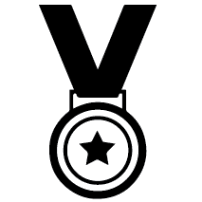
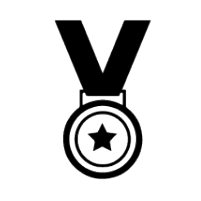
Attempt to solve jekyll building issue - part 3

Changed region(s): [[0.1791, 0.0, 0.7761, 1.0]]

diff --git a/_sass/hydejack/_images.pre.scss b/_sass/hydejack/_images.pre.scss
@@ -26,6 +26,7 @@
     // <<< link
     background-position: center;
     background-repeat: no-repeat;
[1 lines of base64/hex data omitted]
     // >>>
   }
 }
@@ -76,3 +77,18 @@ figure, .figure {
 .animation-main hy-img img { animation: none!important; }
 
 // >>>
+
+// CUSTOM
+
+.content .img-custom {
+  img {
+    margin: 0;
+    width: 100%;
+    height: 100%;
+    object-fit: cover;
+    object-position: center;
+    background-color: var(--gray-bg);
+    background-position: center;
+    background-repeat: no-repeat;
+  }
+}

diff --git a/_sass/hydejack/_sidebar.pre.scss b/_sass/hydejack/_sidebar.pre.scss
@@ -73,7 +73,6 @@ hy-drawer {
   justify-content: center;
   align-items: center;
   color: rgba(255, 255, 255, .75);
-  // color: rgba(0, 0, 0, .75);
   text-align: center;
   z-index: 2;
   min-height: 100vh;
@@ -81,12 +80,9 @@ hy-drawer {
 
   a {
     color: #fff; // inline
-    // color: #000; // inline
     border-bottom-color: rgba(255, 255, 255, 0.2); // inline
-    // border-bottom-color: rgba(0, 0, 0, 0.2); // inline
     &:hover {
       border-bottom-color: #fff;
-      // border-bottom-color: #000;
     } // link
   }
 }
@@ -135,12 +131,7 @@ hy-drawer.loaded .sidebar {
 
 .sidebar-about {
   .avatar {
-    // margin-bottom: 1.5rem;
-    margin-bottom: 3.5rem;
-    // NEWS
-    width: 100%;
-    height: 100%;
-    border-radius: 0% !important;
+    margin-bottom: 1.5rem;
   }
 
   > h2 {
@@ -151,8 +142,6 @@ hy-drawer.loaded .sidebar {
 .sidebar-nav > ul {
   list-style: none;
   padding-left: 0;
-  // NEWS
-  margin-bottom: 3.5rem;
 }
 
 a.sidebar-nav-item {
@@ -186,3 +175,32 @@ a.sidebar-nav-item {
   }
 }
 // >>>>>
+
+// CUSTOM
+
+.sidebar-about-custom {
+  margin-bottom: 3.5rem !important;
+
+  .avatar-custom {
+    margin-bottom: 0rem !important;
+    width: 100% !important;
+    height: 100% !important;
+    border-radius: 0% !important;
+  }
+}
+
+.sidebar-nav-custom {
+  margin-bottom: 3.5rem;
+}
+
+.sidebar-custom {
+  color: rgba(0, 0, 0, .75) !important;
+}
+
+.color-link-custom {
+  color: #000 !important;
+  border-bottom-color: rgba(0, 0, 0, 0.2) !important;
+  &:hover {
+    border-bottom-color: #000 !important;
+  }
+}

diff --git a/_includes/body/sidebar.html b/_includes/body/sidebar.html
@@ -5,7 +5,7 @@
   touch-events
   prevent-default
 >
-  <header id="_sidebar" class="sidebar" role="banner">
+  <header id="_sidebar" class="sidebar sidebar-custom" role="banner">
     {% if image.background %}
       {% capture bg_style %}background:{{ image.background }}{% endcapture %}
       {% capture bg_class %}sidebar-bg {% if image.overlay %}sidebar-overlay{% endif %}{% endcapture %}
@@ -17,10 +17,10 @@
     <div class="{{bg_class}}" style="{{bg_style}}"></div>
 
     <div class="sidebar-sticky">
-      <div class="sidebar-about">
+      <div class="sidebar-about sidebar-about-custom">
         {% if site.logo %}
           <a class="no-hover" href="{{ '/' | relative_url }}" tabindex="-1">
-            <img src="{{ site.logo | relative_url }}" class="avatar" alt="{{ site.short_title | default:site.title }}" data-ignore />
+            <img src="{{ site.logo | relative_url }}" class="avatar avatar-custom" alt="{{ site.short_title | default:site.title }}" data-ignore />
           </a>
         {% endif %}
         <!-- 
@@ -34,7 +34,7 @@
          -->
       </div>
 
-      <nav class="sidebar-nav heading" role="navigation">
+      <nav class="sidebar-nav heading sidebar-nav-custom" role="navigation">
         {% include body/nav.html %}
       </nav>
 

diff --git a/_includes/components/social-list-item.html b/_includes/components/social-list-item.html
@@ -33,14 +33,14 @@
 
   {% if platform == "email" %}
   <li>
-    <a href="{{ url }}" title="{{ name }}" class="no-mark-external">
+    <a href="{{ url }}" title="{{ name }}" class="no-mark-external color-link-custom">
       <span class="{{ icon }}"></span>
       <span class="sr-only">{{ name }}</span>
     </a>
   </li>
   {% else %}
   <li>
-    <a href="{{ url }}" title="{{ name }}" class="no-mark-external" target="_blank">
+    <a href="{{ url }}" title="{{ name }}" class="no-mark-external color-link-custom" target="_blank">
       <span class="{{ icon }}"></span>
       <span class="sr-only">{{ name }}</span>
     </a>

diff --git a/_includes/pro/project-card.html b/_includes/pro/project-card.html
@@ -21,7 +21,7 @@
     </div>
   </a>
   <h3 class="project-card-title">
-    <a href="{{ project.url | relative_url }}" class="flip-title" property="mainEntityOfPage">{{ project.title }}</a>
+    <a href="{{ project.url | relative_url }}" class="flip-title color-link-custom" property="mainEntityOfPage">{{ project.title }}</a>
   </h3>
   {% if project.caption %}
     <p class="project-card-text fine" property="disambiguatingDescription">

diff --git a/_includes/body/nav.html b/_includes/body/nav.html
@@ -9,7 +9,7 @@
         <a
           {% if forloop.first %}id="_navigation"{% endif %}
           href="{{ node.url | relative_url }}"
-          class="sidebar-nav-item{% if page.url contains node.url %} active{% endif %}"
+          class="sidebar-nav-item{% if page.url contains node.url %} active{% endif %} color-link-custom"
           {% if path.rel %}rel="{{ node.rel }}"{% endif %}
           >
           {{ node.title }}

diff --git a/_workshops/fast.md b/_workshops/fast.md
@@ -32,7 +32,7 @@ At the end of the course you will get your 3D models and as well some interestin
 <div class="columns">
   <div class="column column-1-3">
     <div class="project-card">
-      <div class="project-card-img img">
+      <div class="project-card-img img-custom">
         <img src="../../assets/img/hero-icon_create.png"/>
       </div>
       <h3 class="project-card-title">
@@ -42,7 +42,7 @@ At the end of the course you will get your 3D models and as well some interestin
   </div>
   <div class="column column-1-3">
     <div class="project-card">
-      <div class="project-card-img img">
+      <div class="project-card-img img-custom">
         <img src="../../assets/img/hero-icon_modify.png"/>
       </div>
       <h3 class="project-card-title">
@@ -52,7 +52,7 @@ At the end of the course you will get your 3D models and as well some interestin
   </div>
   <div class="column column-1-3">
     <div class="project-card">
-      <div class="project-card-img img">
+      <div class="project-card-img img-custom">
         <img src="../../assets/img/hero-icon_life.png"/>
       </div>
       <h3 class="project-card-title">
